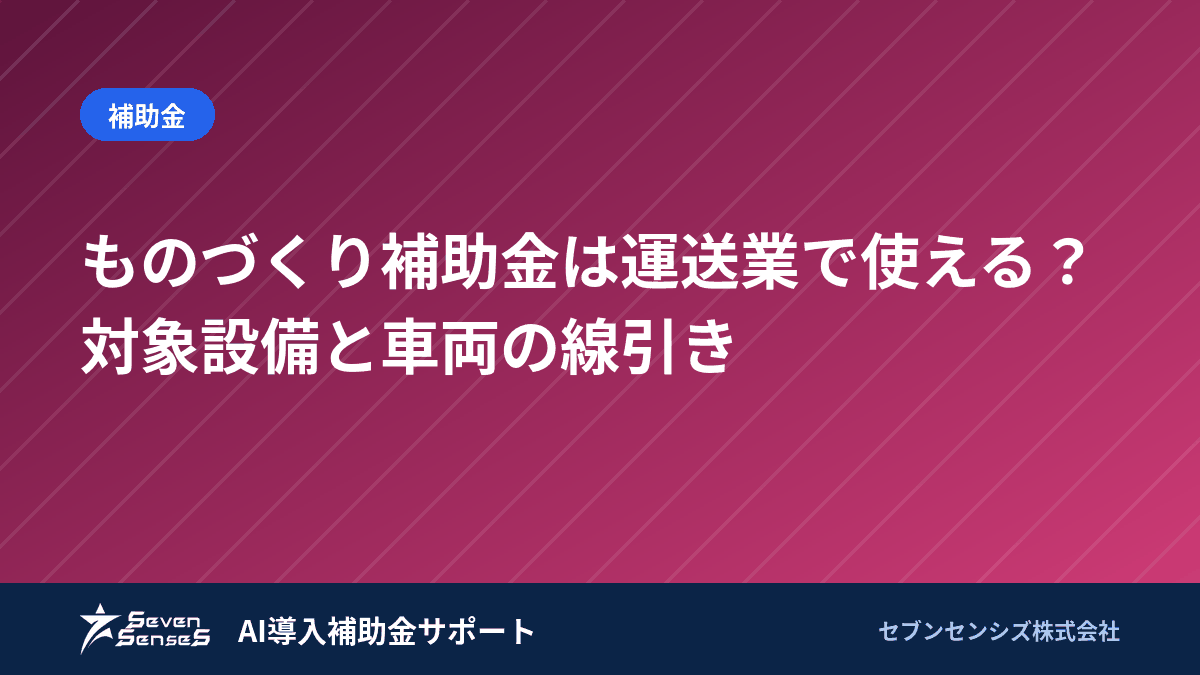
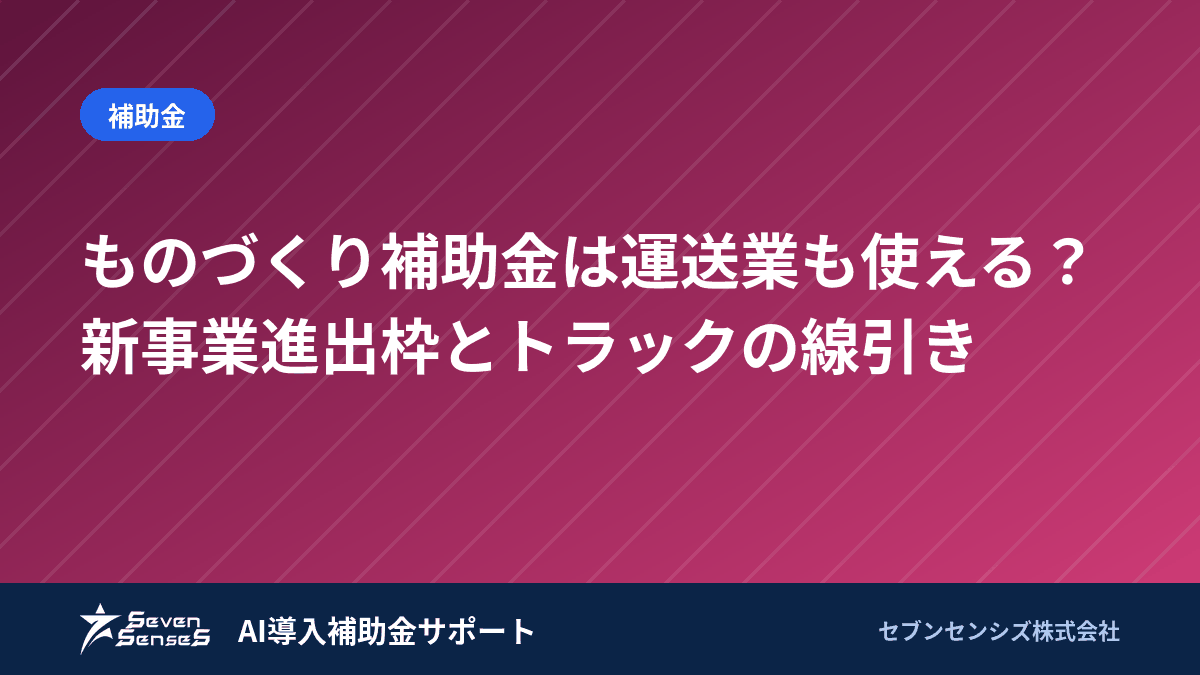
publish: ものづくり補助金は運送業も使える？新事業進出枠とトラックの線引き（score 93 / 2026-09-26）

Changed region(s): [[0.0617, 0.4667, 0.8325, 0.56], [0.6783, 0.3422, 0.7092, 0.4356]]

diff --git a/blog/monozukuri-hojokin-unsougyou/index.html b/blog/monozukuri-hojokin-unsougyou/index.html
@@ -3,13 +3,13 @@
 <head>
 <meta charset="UTF-8">
 <meta name="viewport" content="width=device-width, initial-scale=1">
-<title>ものづくり補助金は運送業も対象｜使える設備3分野と車両の線引き|セブンセンシズ株式会社</title>
-<meta name="description" content="運送業もものづくり補助金の対象です。動態管理システム・庫内自動化設備など対象になる3分野と、トラック本体が対象外になる理由を線引きします。新事業進出枠を含む申請枠の選び方と、審査で落ちない計上のしかたまで。">
+<title>ものづくり補助金は運送業も使える？新事業進出枠とトラックの線引き|セブンセンシズ株式会社</title>
+<meta name="description" content="運送業もものづくり補助金（旧ものづくり・商業・サービス生産性向上促進補助金）の対象です。動態管理システム・庫内自動化設備など対象の3分野、トラック本体が対象外になる理由、新事業進出枠を選ぶ条件を整理し、車両の計上で審査に落ちる失敗も解説します。">
 <link rel="canonical" href="https://lp.7senses.co.jp/blog/monozukuri-hojokin-unsougyou/">
 <meta name="robots" content="index,follow">
 <meta property="og:type" content="article">
-<meta property="og:title" content="ものづくり補助金は運送業も対象｜使える設備3分野と車両の線引き">
-<meta property="og:description" content="運送業もものづくり補助金の対象です。動態管理システム・庫内自動化設備など対象になる3分野と、トラック本体が対象外になる理由を線引きします。新事業進出枠を含む申請枠の選び方と、審査で落ちない計上のしかたまで。">
+<meta property="og:title" content="ものづくり補助金は運送業も使える？新事業進出枠とトラックの線引き">
+<meta property="og:description" content="運送業もものづくり補助金（旧ものづくり・商業・サービス生産性向上促進補助金）の対象です。動態管理システム・庫内自動化設備など対象の3分野、トラック本体が対象外になる理由、新事業進出枠を選ぶ条件を整理し、車両の計上で審査に落ちる失敗も解説します。">
 <meta property="og:url" content="https://lp.7senses.co.jp/blog/monozukuri-hojokin-unsougyou/">
 <meta property="og:image" content="https://lp.7senses.co.jp/images/blog/monozukuri-hojokin-unsougyou/thumbnail.webp">
 <meta property="og:locale" content="ja_JP">
@@ -20,8 +20,8 @@
   "@context": "https://schema.org",
   "@graph": [
     { "@type": "Article",
-      "headline": "ものづくり補助金は運送業も対象｜使える設備3分野と車両の線引き",
-      "description": "運送業もものづくり補助金の対象です。動態管理システム・庫内自動化設備など対象になる3分野と、トラック本体が対象外になる理由を線引きします。新事業進出枠を含む申請枠の選び方と、審査で落ちない計上のしかたまで。",
+      "headline": "ものづくり補助金は運送業も使える？新事業進出枠とトラックの線引き",
+      "description": "運送業もものづくり補助金（旧ものづくり・商業・サービス生産性向上促進補助金）の対象です。動態管理システム・庫内自動化設備など対象の3分野、トラック本体が対象外になる理由、新事業進出枠を選ぶ条件を整理し、車両の計上で審査に落ちる失敗も解説します。",
       "datePublished": "2026-08-22",
       "dateModified": "2026-09-01",
       "inLanguage": "ja",
@@ -34,7 +34,7 @@
     { "@type": "BreadcrumbList", "itemListElement": [
       { "@type": "ListItem", "position": 1, "name": "ホーム", "item": "https://lp.7senses.co.jp/" },
       { "@type": "ListItem", "position": 2, "name": "ブログ", "item": "https://lp.7senses.co.jp/blog/" },
-      { "@type": "ListItem", "position": 3, "name": "ものづくり補助金は運送業も対象｜使える設備3分野と車両の線引き" } ] },
+      { "@type": "ListItem", "position": 3, "name": "ものづくり補助金は運送業も使える？新事業進出枠とトラックの線引き" } ] },
     { "@type": "FAQPage", "mainEntity": [
             { "@type": "Question", "name": "ものづくり補助金は運送業でも使えますか？", "acceptedAnswer": { "@type": "Answer", "text": "使えます。2026年度は新事業進出・ものづくり商業サービス補助金として運送業も対象です。" } },
       { "@type": "Question", "name": "運送業で対象になる設備にはどんなものがありますか？", "acceptedAnswer": { "@type": "Answer", "text": "動態管理システム、AGVや自動倉庫などの庫内自動化設備、仕分け・ピッキング設備が中心です。" } },
@@ -163,9 +163,9 @@ window.addEventListener('load',function(){setTimeout(function(){var s=document.c
 </header>
 <main>
 <div class="main-col">
-  <nav class="crumb" aria-label="パンくず"><a href="/">ホーム</a> › <a href="/blog/">AI導入補助金ブログ</a> › ものづくり補助金は運送業も対象｜使える設備3分野と車両の</nav>
+  <nav class="crumb" aria-label="パンくず"><a href="/">ホーム</a> › <a href="/blog/">AI導入補助金ブログ</a> › ものづくり補助金は運送業も使える？新事業進出枠とトラック</nav>
   <span class="cat">補助金</span>
-  <h1>ものづくり補助金は運送業も対象｜使える設備3分野と車両の線引き</h1>
+  <h1>ものづくり補助金は運送業も使える？新事業進出枠とトラックの線引き</h1>
   <div class="meta">
     <span>公開: 2026年8月22日</span><span>執筆: 原口優(代表取締役)</span><span>読了目安: 10分</span>
   </div>
@@ -431,9 +431,9 @@ window.addEventListener('load',function(){setTimeout(function(){var s=document.c
 
   <div class="rel">
     <p class="t">RELATED</p>
-    <ul><li><a href="/blog/jidousha-seibi-hojokin-consul/">自動車整備の補助金コンサル選び｜避けるべき5つの契約と頼み方</a></li>
-<li><a href="/blog/invoice-hojokin-kojinjigyonushi-itsumade/">インボイス補助金は個人事業主いつまで？締切と税の特例期限</a></li>
-<li><a href="/blog/sogyo-shien-hojokin-kojinjigyonushi/">創業支援等事業者の補助金｜個人事業主は証明書で上限200万円</a></li></ul>
+    <ul><li><a href="/blog/nougyou-shoki-hiyou-hojokin/">農業の初期費用は平均755万円｜費目別に使える補助金4つ</a></li>
+<li><a href="/blog/jidousha-seibi-hojokin-consul/">自動車整備の補助金コンサル選び｜避けるべき5つの契約と頼み方</a></li>
+<li><a href="/blog/invoice-hojokin-kojinjigyonushi-itsumade/">インボイス補助金は個人事業主いつまで？締切と税の特例期限</a></li></ul>
   </div>
 </div>
 <aside class="side">

diff --git a/blog-system/content/posted/monozukuri-hojokin-unsougyou.md b/blog-system/content/posted/monozukuri-hojokin-unsougyou.md
@@ -1,6 +1,6 @@
 ---
-title: ものづくり補助金は運送業も対象｜使える設備3分野と車両の線引き
-description: 運送業もものづくり補助金の対象です。動態管理システム・庫内自動化設備など対象になる3分野と、トラック本体が対象外になる理由を線引きします。新事業進出枠を含む申請枠の選び方と、審査で落ちない計上のしかたまで。
+title: ものづくり補助金は運送業も使える？新事業進出枠とトラックの線引き
+description: 運送業もものづくり補助金（旧ものづくり・商業・サービス生産性向上促進補助金）の対象です。動態管理システム・庫内自動化設備など対象の3分野、トラック本体が対象外になる理由、新事業進出枠を選ぶ条件を整理し、車両の計上で審査に落ちる失敗も解説します。
 slug: monozukuri-hojokin-unsougyou
 keyword: ものづくり補助金 運送業
 category: hojokin
